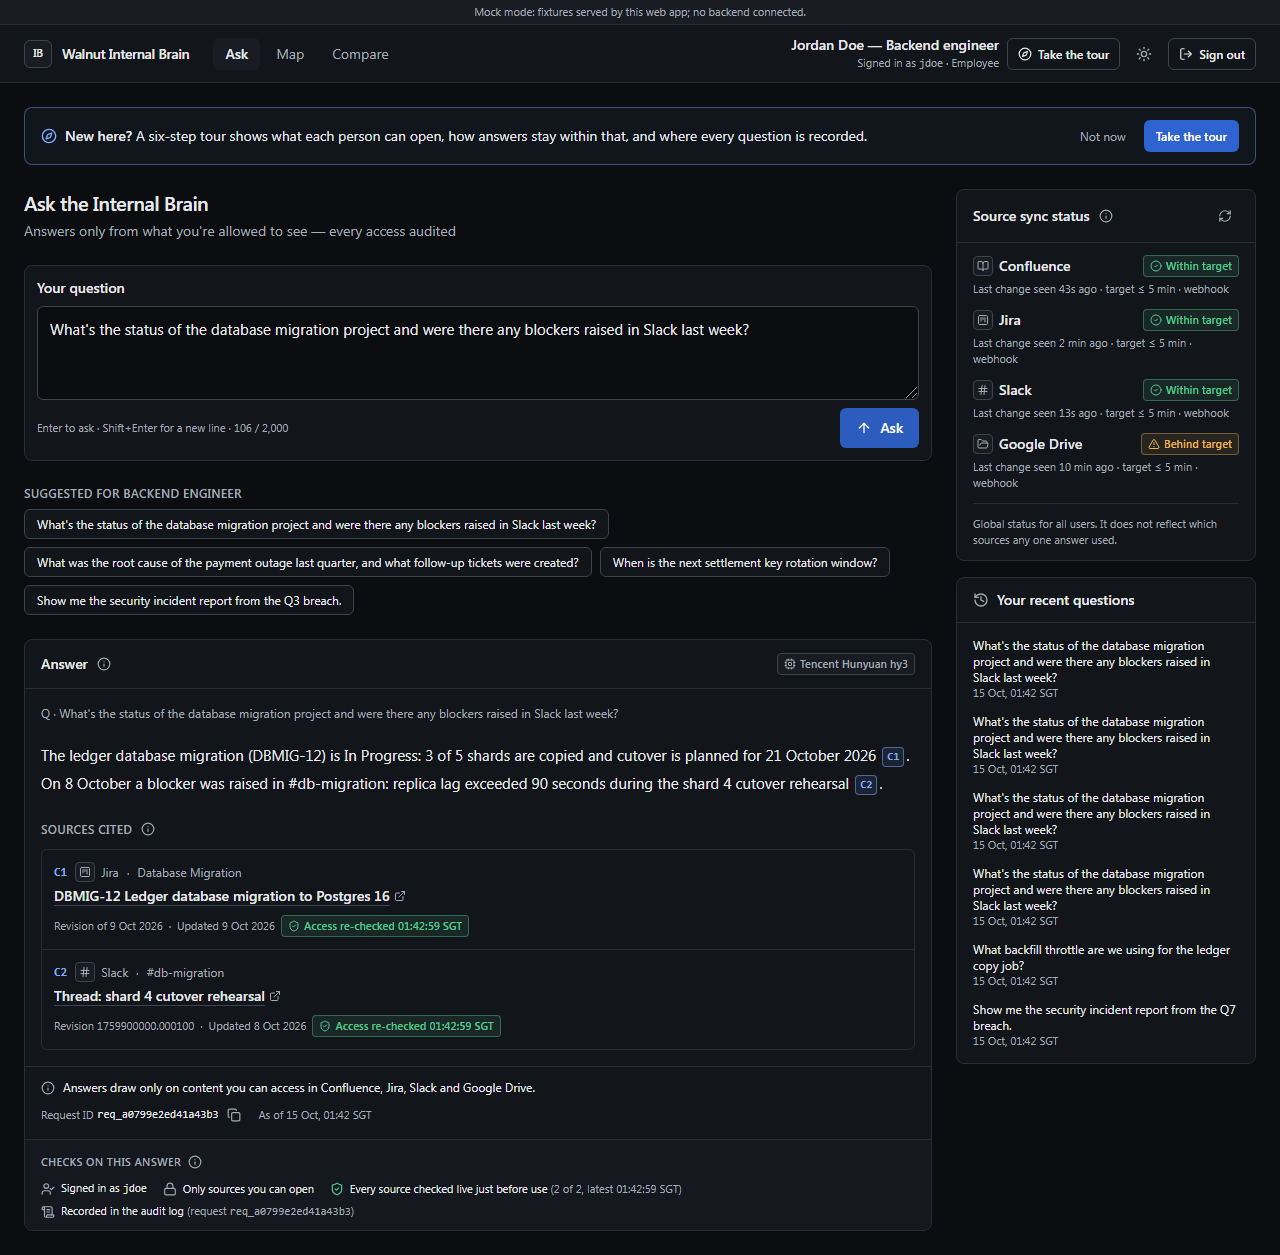
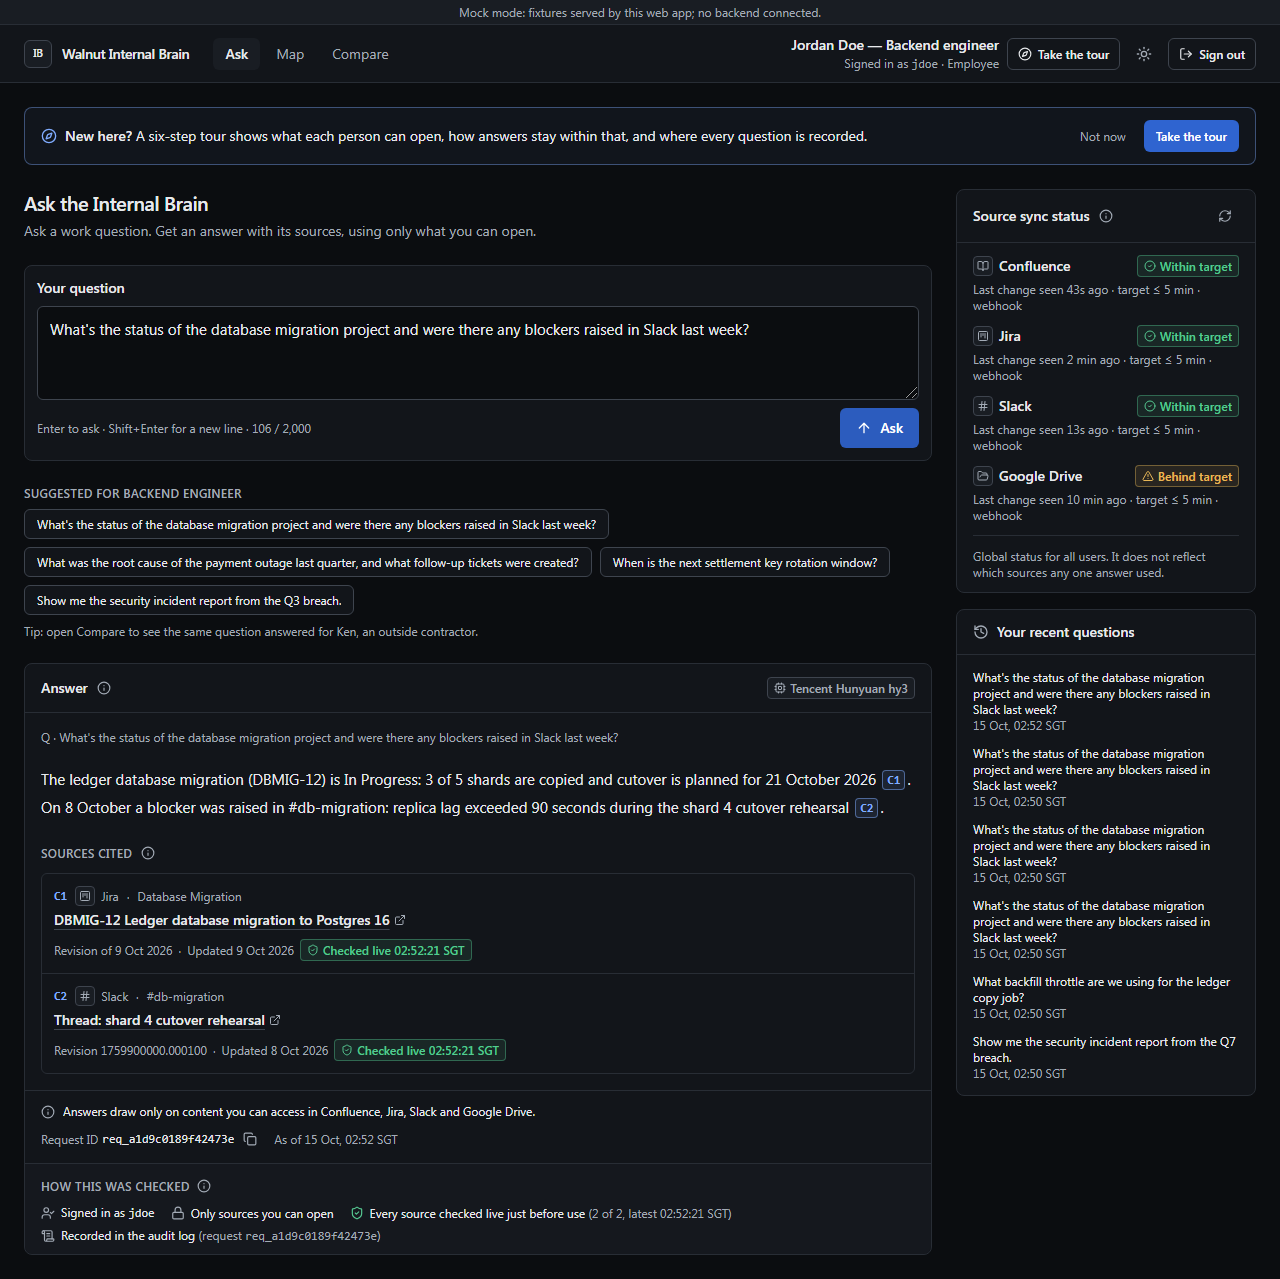
fix(web): plain-language copy from the UX review (no jargon on audit screens, clear first screen, readable 12px minimum), compare passcode carried to the comparison slots; original-screens check expects the one-person sign-in

diff --git a/databridge/apps/internal_brain_web/components/AnswerPanel.tsx b/databridge/apps/internal_brain_web/components/AnswerPanel.tsx
@@ -96,7 +96,7 @@ export function CitationList({ citations, idPrefix = '', tour = false }: { citat
             <span aria-hidden>·</span>
             <span className="tabular">Updated {fmtDate(c.updated_at)}</span>
             <Badge tone="ok" icon={ShieldCheck} title={`Access re-checked against ${c.platform} at ${c.authz_checked_at}`}>
-              Access re-checked {fmtTime(c.authz_checked_at)}
+              Checked live {fmtTime(c.authz_checked_at)}
             </Badge>
             {c.live_read ? (
               <Badge tone="accent" icon={RefreshCw} title={`Content re-read from ${c.platform} at ${c.content_checked_at}`}>
@@ -105,7 +105,7 @@ export function CitationList({ citations, idPrefix = '', tour = false }: { citat
             ) : null}
             {c.stale ? (
               <Badge tone="warn" icon={TriangleAlert} title="This source is syncing behind its freshness target; newer edits may not be reflected">
-                Stale: source sync behind target
+                May be out of date
               </Badge>
             ) : null}
           </div>
@@ -194,7 +194,7 @@ export const AnswerCard = forwardRef<HTMLHeadingElement, AnswerCardProps>(functi
               Sources cited
             </Sub>
             <InfoTip title="Sources cited">
-              Every source behind this answer, with its version and a link to the original. &ldquo;Access re-checked&rdquo; is when we asked the platform itself, just before use, whether this person can still open it.
+              Every source behind this answer, with its version and a link to the original. &ldquo;Checked live&rdquo; is when we asked the platform itself, just before use, whether this person can still open it.
             </InfoTip>
           </div>
           <CitationList citations={res.citations} idPrefix={idPrefix} tour={tour} />
@@ -219,7 +219,7 @@ export const AnswerCard = forwardRef<HTMLHeadingElement, AnswerCardProps>(functi
 });
 
 /**
- * "Checks on this answer": the core guarantees, stated with the data that backs them for THIS
+ * "How this was checked": the core guarantees, stated with the data that backs them for THIS
  * answer: who it was for, that every cited source was re-checked live (count and latest check time
  * come from the citations), and the request id under which it sits in the audit ledger.
  */
@@ -229,15 +229,15 @@ export function ChecksStrip({ res, signedInAs, tour = false }: { res: AskRespons
   const latest = checked.map((c) => c.authz_checked_at).sort().at(-1);
   return (
     <section
-      aria-label="Checks on this answer"
+      aria-label="How this was checked"
       className="rounded-b-lg border-t border-line bg-raised/40 px-4 py-2.5"
       data-testid="checks-strip"
       data-tour={tour ? 'checks' : undefined}
     >
       <div className="flex flex-wrap items-center gap-x-4 gap-y-1.5 text-2xs text-fg">
         <span className="inline-flex items-center gap-0.5 font-semibold uppercase tracking-wide text-muted">
-          Checks on this answer
-          <InfoTip title="Checks on this answer">
+          How this was checked
+          <InfoTip title="How this was checked">
             The safeguards that ran for this answer. Access was checked before anything reached the model, and the question was recorded in the audit log before the answer was shown.
           </InfoTip>
         </span>
@@ -283,7 +283,7 @@ export function ChecksStrip({ res, signedInAs, tour = false }: { res: AskRespons
 export function AnswerError({ status, onRetry }: { status: number; onRetry: () => void }) {
   const msg =
     status === 503 || status === 0 || status >= 500
-      ? 'The Internal Brain is temporarily unavailable — nothing was answered.'
+      ? 'The Internal Brain is unavailable right now. Nothing was answered. Try again in a moment.'
       : status === 403
         ? 'Your account is not permitted to ask questions — nothing was answered.'
         : status === 422

diff --git a/databridge/apps/internal_brain_web/app/login/page.tsx b/databridge/apps/internal_brain_web/app/login/page.tsx
@@ -28,7 +28,7 @@ export default function LoginPage() {
           : status === 404
           ? 'Demo sign-in is not enabled on this server.'
           : status === 400
-            ? 'That persona is not in the directory.'
+            ? "We couldn't find that person. Pick one from the list."
             : 'The Internal Brain is temporarily unavailable. Try again in a moment.',
       );
       setBusy(null);
@@ -47,10 +47,13 @@ export default function LoginPage() {
       className="group flex w-full items-center gap-3 rounded-md border border-line-strong bg-surface px-3 py-2.5 text-left hover:border-accent/60 hover:bg-raised disabled:opacity-60"
     >
       <span className="min-w-0 flex-1">
-        <span className="block text-sm font-medium text-fg">
-          {p.id === 'admin.it' ? 'IT admin (simulator)' : `${p.name} — ${p.role}`}
+        <span className="flex flex-wrap items-center gap-2 text-sm font-medium text-fg">
+          {p.id === 'admin.it' ? "IT admin: change someone's access" : `${p.name} — ${p.role}`}
+          {p.id === 'jdoe' ? (
+            <span className="rounded border border-accent/50 bg-accent/10 px-1.5 py-0.5 text-2xs font-semibold text-accent">Start here</span>
+          ) : null}
         </span>
-        <span className="block truncate text-2xs text-muted">{p.note}</span>
+        <span className="block truncate text-xs text-muted">{p.note}</span>
         <span className="block font-mono text-2xs text-muted">{p.id}</span>
       </span>
       {busy === p.id ? (
@@ -82,13 +85,13 @@ export default function LoginPage() {
         <section aria-labelledby="signin-heading" className="rounded-lg border border-line bg-surface" data-tour="personas">
           <div className="border-b border-line px-5 py-4">
             <div className="mb-2 inline-flex items-center gap-1.5 rounded border border-line-strong bg-raised px-2 py-0.5 text-2xs font-medium text-muted" data-testid="synthetic-label">
-              <Database aria-hidden className="h-3 w-3" /> Synthetic demo data — Company A
+              <Database aria-hidden className="h-3 w-3" /> Made-up demo data for Company A
             </div>
             <h1 id="signin-heading" className="text-lg font-semibold">
-              Demo sign-in
+              Try it as someone at Company A
             </h1>
             <p className="mt-1 text-sm text-muted">
-              Choose a persona. Each one sees only what they can open in Confluence, Jira, Slack and Google Drive, and every question is recorded in the audit ledger.
+              Pick a person. Each one can open different things in Confluence, Jira, Slack and Google Drive. Ask the same question as two of them and compare the answers.
             </p>
           </div>
           <div className="space-y-5 px-5 py-4">
@@ -116,7 +119,7 @@ export default function LoginPage() {
               </ul>
             </div>
             <div>
-              <h2 className="mb-2 text-xs font-semibold uppercase tracking-wide text-muted">Platform operator</h2>
+              <h2 className="mb-2 text-xs font-semibold uppercase tracking-wide text-muted">Change access (IT admin)</h2>
               <ul className="grid grid-cols-1 gap-2 sm:grid-cols-2">
                 <li>
                   <PersonaButton p={admin} />
@@ -130,7 +133,7 @@ export default function LoginPage() {
             ) : null}
           </div>
           <p className="border-t border-line px-5 py-3 text-2xs text-muted">
-            Demo sign-in stands in for single sign-on. Your session is an httpOnly cookie; the browser never holds a token.
+            Demo sign-in stands in for your company's single sign-on.
           </p>
         </section>
       </main>

diff --git a/databridge/apps/internal_brain_web/tests/e2e/ask.spec.ts b/databridge/apps/internal_brain_web/tests/e2e/ask.spec.ts
@@ -18,7 +18,7 @@ test('login → ask → citations visible → scope note visible', async ({ page
   await expect(chips.first()).toBeVisible();
   const items = answer.getByTestId('citations').locator('li');
   await expect(items).toHaveCount(await chips.count());
-  await expect(items.first()).toContainText('Access re-checked');
+  await expect(items.first()).toContainText('Checked live');
   await expect(items.first().getByRole('link')).toHaveAttribute('target', '_blank');
   await expect(answer.getByTestId('scope-note')).toHaveText(SCOPE_NOTE);
   await expect(answer.getByTestId('model-badge')).toHaveText('Tencent Hunyuan hy3');
@@ -51,14 +51,14 @@ test('refusal renders calmly with the same layout and the same scope note', asyn
 test('503 shows the "nothing was answered" state', async ({ page }) => {
   await login(page, 'jdoe');
   await ask(page, '[mock:503] anything');
-  await expect(page.getByTestId('answer-error')).toContainText('The Internal Brain is temporarily unavailable — nothing was answered.');
+  await expect(page.getByTestId('answer-error')).toContainText('The Internal Brain is unavailable right now. Nothing was answered. Try again in a moment.');
   await expect(page.getByTestId('answer')).toHaveCount(0);
 });
 
 test('model badges: fallback, extractive, live re-read and stale cues are text, not colour', async ({ page }) => {
   await login(page, 'leo.ops');
   await ask(page, 'Can we offer multi-currency accounts to an Indonesian SME customer?');
-  await expect(page.getByTestId('answer')).toContainText('Stale');
+  await expect(page.getByTestId('answer')).toContainText('May be out of date');
   await ask(page, 'What was the root cause of the payment outage last quarter, and what follow-up tickets were created?');
   await expect(page.getByTestId('model-badge')).toHaveText('DeepSeek (fallback)');
   await login(page, 'sara.sec');
@@ -77,7 +77,7 @@ test('simulator: revocation and v8 runbook are reflected on the next question', 
   await login(page, 'admin.it');
   await page.goto('/sim');
   await page.getByRole('button', { name: 'Remove jdoe from #db-migration' }).click();
-  await page.getByRole('button', { name: 'Edit failover runbook (v7→v8)' }).click();
+  await page.getByRole('button', { name: 'Edit failover runbook (new version)' }).click();
   await expect(page.getByTestId('sim-log').locator('li')).toHaveCount(2);
   await expect(page.getByTestId('sim-log')).toContainText('Done');
 

diff --git a/databridge/apps/internal_brain_web/lib/api.ts b/databridge/apps/internal_brain_web/lib/api.ts
@@ -92,14 +92,34 @@ export function groupByRequest(rows: LedgerRow[]): AuditEvent[] {
   return order.map((id) => byReq.get(id)!) as unknown as AuditEvent[];
 }
 
+const PASSCODE_KEY = 'ib-demo-passcode';
+function storedPasscode(): string | undefined {
+  try {
+    return window.sessionStorage.getItem(PASSCODE_KEY) || undefined;
+  } catch {
+    return undefined;
+  }
+}
+function rememberPasscode(passcode?: string) {
+  try {
+    if (passcode) window.sessionStorage.setItem(PASSCODE_KEY, passcode);
+    else window.sessionStorage.removeItem(PASSCODE_KEY);
+  } catch {
+    /* storage unavailable */
+  }
+}
+
 let mapInFlight: Promise<KnowledgeMap> | null = null;
 
 export const api = {
-  login: (persona: string, passcode?: string) =>
-    call<{ sub: string; roles: string[]; name: string }>('/auth/demo-login', {
+  login: async (persona: string, passcode?: string) => {
+    const r = await call<{ sub: string; roles: string[]; name: string }>('/auth/demo-login', {
       method: 'POST',
       body: passcode ? { persona, passcode } : { persona },
-    }),
+    });
+    if (passcode) rememberPasscode(passcode);
+    return r;
+  },
   logout: () => call<{ ok: boolean }>('/auth/logout', { method: 'POST', body: {} }),
   whoami: () => call<WhoAmI>('/auth/whoami'),
   ask: (question: string) => call<AskResponse>('/ib/ask', { method: 'POST', body: { question } }),
@@ -135,8 +155,14 @@ export const api = {
 /** The same calls, bound to a separate compare slot. Never touches the main session cookie. */
 export function slotApi(slot: Exclude<Slot, 'a'>) {
   return {
-    login: (persona: string) =>
-      call<{ sub: string; roles: string[]; name: string }>('/auth/demo-login', { method: 'POST', body: { persona }, slot }),
+    login: (persona: string) => {
+      const passcode = storedPasscode();
+      return call<{ sub: string; roles: string[]; name: string }>('/auth/demo-login', {
+        method: 'POST',
+        body: passcode ? { persona, passcode } : { persona },
+        slot,
+      });
+    },
     whoami: () => call<WhoAmI>('/auth/whoami', { slot }),
     ask: (question: string) => call<AskResponse>('/ib/ask', { method: 'POST', body: { question }, slot }),
     map: () => call<KnowledgeMap>('/ib/map', { slot }),

diff --git a/databridge/apps/internal_brain_web/app/page.tsx b/databridge/apps/internal_brain_web/app/page.tsx
@@ -102,7 +102,7 @@ function AskView() {
             maxLength={MAX}
             aria-describedby="question-hint"
             placeholder="e.g. What's the status of the database migration project?"
-            className="block w-full resize-y rounded-md border border-line-strong bg-bg px-3 py-2.5 text-[15px] leading-6 text-fg placeholder:text-muted/80"
+            className="block w-full resize-y rounded-md border border-line-strong bg-bg px-3 py-2.5 text-[15px] leading-6 text-fg placeholder:text-muted"
           />
           <div className="mt-2 flex flex-wrap items-center justify-between gap-2">
             <p id="question-hint" className="text-2xs text-muted">
@@ -132,6 +132,7 @@ function AskView() {
               </li>
             ))}
           </ul>
+          <p className="mt-2 text-2xs text-muted">Tip: open Compare to see the same question answered for Ken, an outside contractor.</p>
         </section>
 
         <div role="status" aria-live="polite" className="sr-only">
@@ -141,7 +142,7 @@ function AskView() {
         <div aria-busy={phase.kind === 'loading'}>
           {phase.kind === 'loading' ? (
             <div className="space-y-2">
-              <p className="text-xs text-muted">Checking your access in each source, then searching only what you can open…</p>
+              <p className="text-xs text-muted">Checking what you can open, then searching…</p>
               <AnswerLoading />
             </div>
           ) : phase.kind === 'done' ? (
@@ -162,7 +163,7 @@ function AskView() {
             {!history ? (
               <p className="px-2 py-1 text-xs text-muted">Loading…</p>
             ) : history.length === 0 ? (
-              <p className="px-2 py-1 text-xs text-muted">No questions yet. Only you can see your history.</p>
+              <p className="px-2 py-1 text-xs text-muted">No questions yet. Ask one above. Only you can see this list.</p>
             ) : (
               <ul>
                 {history.slice(0, 6).map((h) => (

diff --git a/databridge/apps/internal_brain_web/components/audit/AuditDrawer.tsx b/databridge/apps/internal_brain_web/components/audit/AuditDrawer.tsx
@@ -115,17 +115,17 @@ export function AuditDrawer({ event, onClose }: { event: AuditEvent | null; onCl
 
                 <section aria-labelledby="decisions-h">
                   <h3 id="decisions-h" className="mb-2 text-xs font-semibold uppercase tracking-wide text-muted">
-                    Live access decisions (Gate 2)
+                    Checked with each source just now
                   </h3>
                   <Decisions e={event} />
                 </section>
 
                 <section aria-labelledby="released-h">
                   <h3 id="released-h" className="mb-2 text-xs font-semibold uppercase tracking-wide text-muted">
-                    Released to the model
+                    Sources the answer used
                   </h3>
                   {event.refused ? (
-                    <p className="text-xs">Refused — the constant refusal was returned.</p>
+                    <p className="text-xs">No answer was given.</p>
                   ) : (event.released ?? []).length === 0 ? (
                     <p className="text-xs text-muted">None</p>
                   ) : (
@@ -144,7 +144,7 @@ export function AuditDrawer({ event, onClose }: { event: AuditEvent | null; onCl
                     <Lock aria-hidden className="h-4 w-4 text-muted" /> Answer text
                   </h3>
                   <p className="mt-1 text-xs text-muted">
-                    The ledger holds only a hash of the answer. Revealing the text needs a reason, and the reveal itself is recorded in the ledger (audit.reveal) under your name.
+                    The log keeps only a fingerprint of the answer. To read the text, give a reason. Your reveal is logged under your name.
                   </p>
                   {revealed ? (
                     <div className="mt-3 space-y-1" data-testid="revealed-answer">

diff --git a/databridge/apps/internal_brain_web/app/sim/page.tsx b/databridge/apps/internal_brain_web/app/sim/page.tsx
@@ -19,7 +19,7 @@ interface Action {
 const ACTIONS: Action[] = [
   {
     id: 'runbook-update',
-    label: 'Edit failover runbook (v7→v8)',
+    label: 'Edit failover runbook (new version)',
     platform: 'confluence',
     icon: FilePenLine,
     what: 'Adds step 4b to "Payment service failover runbook" in Confluence. The platform fires a signed webhook; the Internal Brain re-reads the page.',
@@ -31,7 +31,7 @@ const ACTIONS: Action[] = [
     platform: 'slack',
     icon: UserMinus,
     what: 'Removes Jordan Doe from the private Slack channel. Access is re-checked live on the next question.',
-    then: 'Then, as Jordan: "What backfill throttle are we using for the ledger copy job?" — the answer is now refused.',
+    then: 'Then, as Jordan: "What backfill throttle are we using for the ledger copy job?" — the answer no longer uses that channel.',
   },
   {
     id: 'restrict-page',
@@ -39,14 +39,14 @@ const ACTIONS: Action[] = [
     platform: 'confluence',
     icon: Lock,
     what: 'Adds a read restriction (payments leads only) to the Confluence page.',
-    then: 'Then, as Jordan: "When is the next settlement key rotation window?" — the answer is now refused.',
+    then: 'Then, as Jordan: "When is the next settlement key rotation window?" — the answer no longer uses that channel.',
   },
   {
     id: 'reset',
     label: 'Reset demo',
     platform: '',
     icon: RotateCcw,
-    what: 'Reloads the synthetic Company A estate on every mock platform. The audit ledger is append-only and is not reset.',
+    what: 'Restores the demo data on every demo platform. The audit log is never reset.',
     then: 'Use before each demo run.',
   },
 ];

diff --git a/databridge/apps/internal_brain_web/components/audit/AuditTable.tsx b/databridge/apps/internal_brain_web/components/audit/AuditTable.tsx
@@ -8,6 +8,19 @@ export function titleFor(e: AuditEvent, docId: string): string {
   return e.considered_meta?.find((m) => m.doc_id === docId)?.title ?? docId;
 }
 
+const REASON_LABEL: Record<string, string> = {
+  verified: 'checked',
+  drift_material: 'changed, re-read',
+  forbidden: 'not allowed',
+  not_member: 'not allowed',
+  timeout: 'source too slow',
+  source_error: 'source error',
+};
+
+function plainReason(code: string): string {
+  return REASON_LABEL[code] ?? code;
+}
+
 export function Decisions({ e, limit }: { e: AuditEvent; limit?: number }) {
   const g = e.gate2 ?? [];
   if (g.length === 0) return <span className="text-muted">None</span>;
@@ -27,7 +40,9 @@ export function Decisions({ e, limit }: { e: AuditEvent; limit?: number }) {
                 Deny
               </Badge>
             )}
-            <span className="font-mono text-2xs text-muted">{allow ? d.verdict : d.reason_code || d.verdict}</span>
+            <span className="text-2xs text-muted" title={allow ? d.verdict : d.reason_code || d.verdict}>
+              {plainReason(allow ? d.verdict : d.reason_code || d.verdict)}
+            </span>
           </li>
         );
       })}

diff --git a/databridge/apps/internal_brain_web/components/audit/VerifyPanel.tsx b/databridge/apps/internal_brain_web/components/audit/VerifyPanel.tsx
@@ -36,13 +36,13 @@ export function VerifyPanel() {
         <div>
           <div className="flex items-center gap-1">
             <h2 id="verify-heading" className="text-sm font-semibold">
-              Ledger integrity
+              Audit log check
             </h2>
             <InfoTip title="Audit chain" testId="infotip-verify">
               The audit log is a chain: each entry carries the previous entry&apos;s fingerprint, so an edit or deletion anywhere breaks the chain. Verify re-checks every link and compares the latest one with the copy published outside this system.
             </InfoTip>
           </div>
-          <p className="text-2xs text-muted">Re-checks every hash link, the seal, the anchor directory and the last externally published head.</p>
+          <p className="text-2xs text-muted">Checks that no entry was changed or removed, and that every stored answer still matches its fingerprint.</p>
         </div>
         <Button onClick={run} busy={busy} icon={ShieldCheck}>
           Verify audit chain

diff --git a/databridge/apps/internal_brain_web/app/audit/page.tsx b/databridge/apps/internal_brain_web/app/audit/page.tsx
@@ -112,7 +112,7 @@ function AuditView() {
       <div>
         <h1 className="text-xl font-semibold tracking-tight">Audit console</h1>
         <p className="mt-1 max-w-3xl text-sm text-muted">
-          Every request is written to the hash-chained ledger before an answer is released. This view shows metadata: who asked, what was considered, every access decision and what was released. Answer text needs a reasoned, logged reveal.
+          Every question is logged before the answer is shown. This list shows who asked, which sources were checked and what the answer used. Answer text stays hidden unless you give a reason, and that is logged too.
         </p>
       </div>
 

diff --git a/databridge/apps/internal_brain_web/tests/e2e/audit.spec.ts b/databridge/apps/internal_brain_web/tests/e2e/audit.spec.ts
@@ -38,7 +38,7 @@ test('audit: NL question shows the parsed filter before results; manual filter; 
   await rows.first().getByRole('button', { name: /Details for request/ }).click();
   const drawer = page.getByTestId('audit-drawer');
   await expect(drawer).toBeVisible();
-  await expect(drawer).toContainText('the reveal itself is recorded in the ledger');
+  await expect(drawer).toContainText('Your reveal is logged under your name');
   await drawer.getByRole('button', { name: 'Reveal answer' }).click();
   await expect(drawer.getByText('Please give a fuller reason.')).toBeVisible();
   await expect(drawer.getByTestId('revealed-answer')).toHaveCount(0);

diff --git a/databridge/apps/internal_brain_web/tests/e2e/screenshots.spec.ts b/databridge/apps/internal_brain_web/tests/e2e/screenshots.spec.ts
@@ -40,7 +40,7 @@ for (const vp of [
 
       await login(page, 'admin.it');
       await page.goto('/sim');
-      await page.getByRole('button', { name: 'Edit failover runbook (v7→v8)' }).click();
+      await page.getByRole('button', { name: 'Edit failover runbook (new version)' }).click();
       await expect(page.getByTestId('sim-log')).toContainText('Done');
       await page.screenshot({ path: shot(`06-sim-${vp.name}`), fullPage: true });
 
